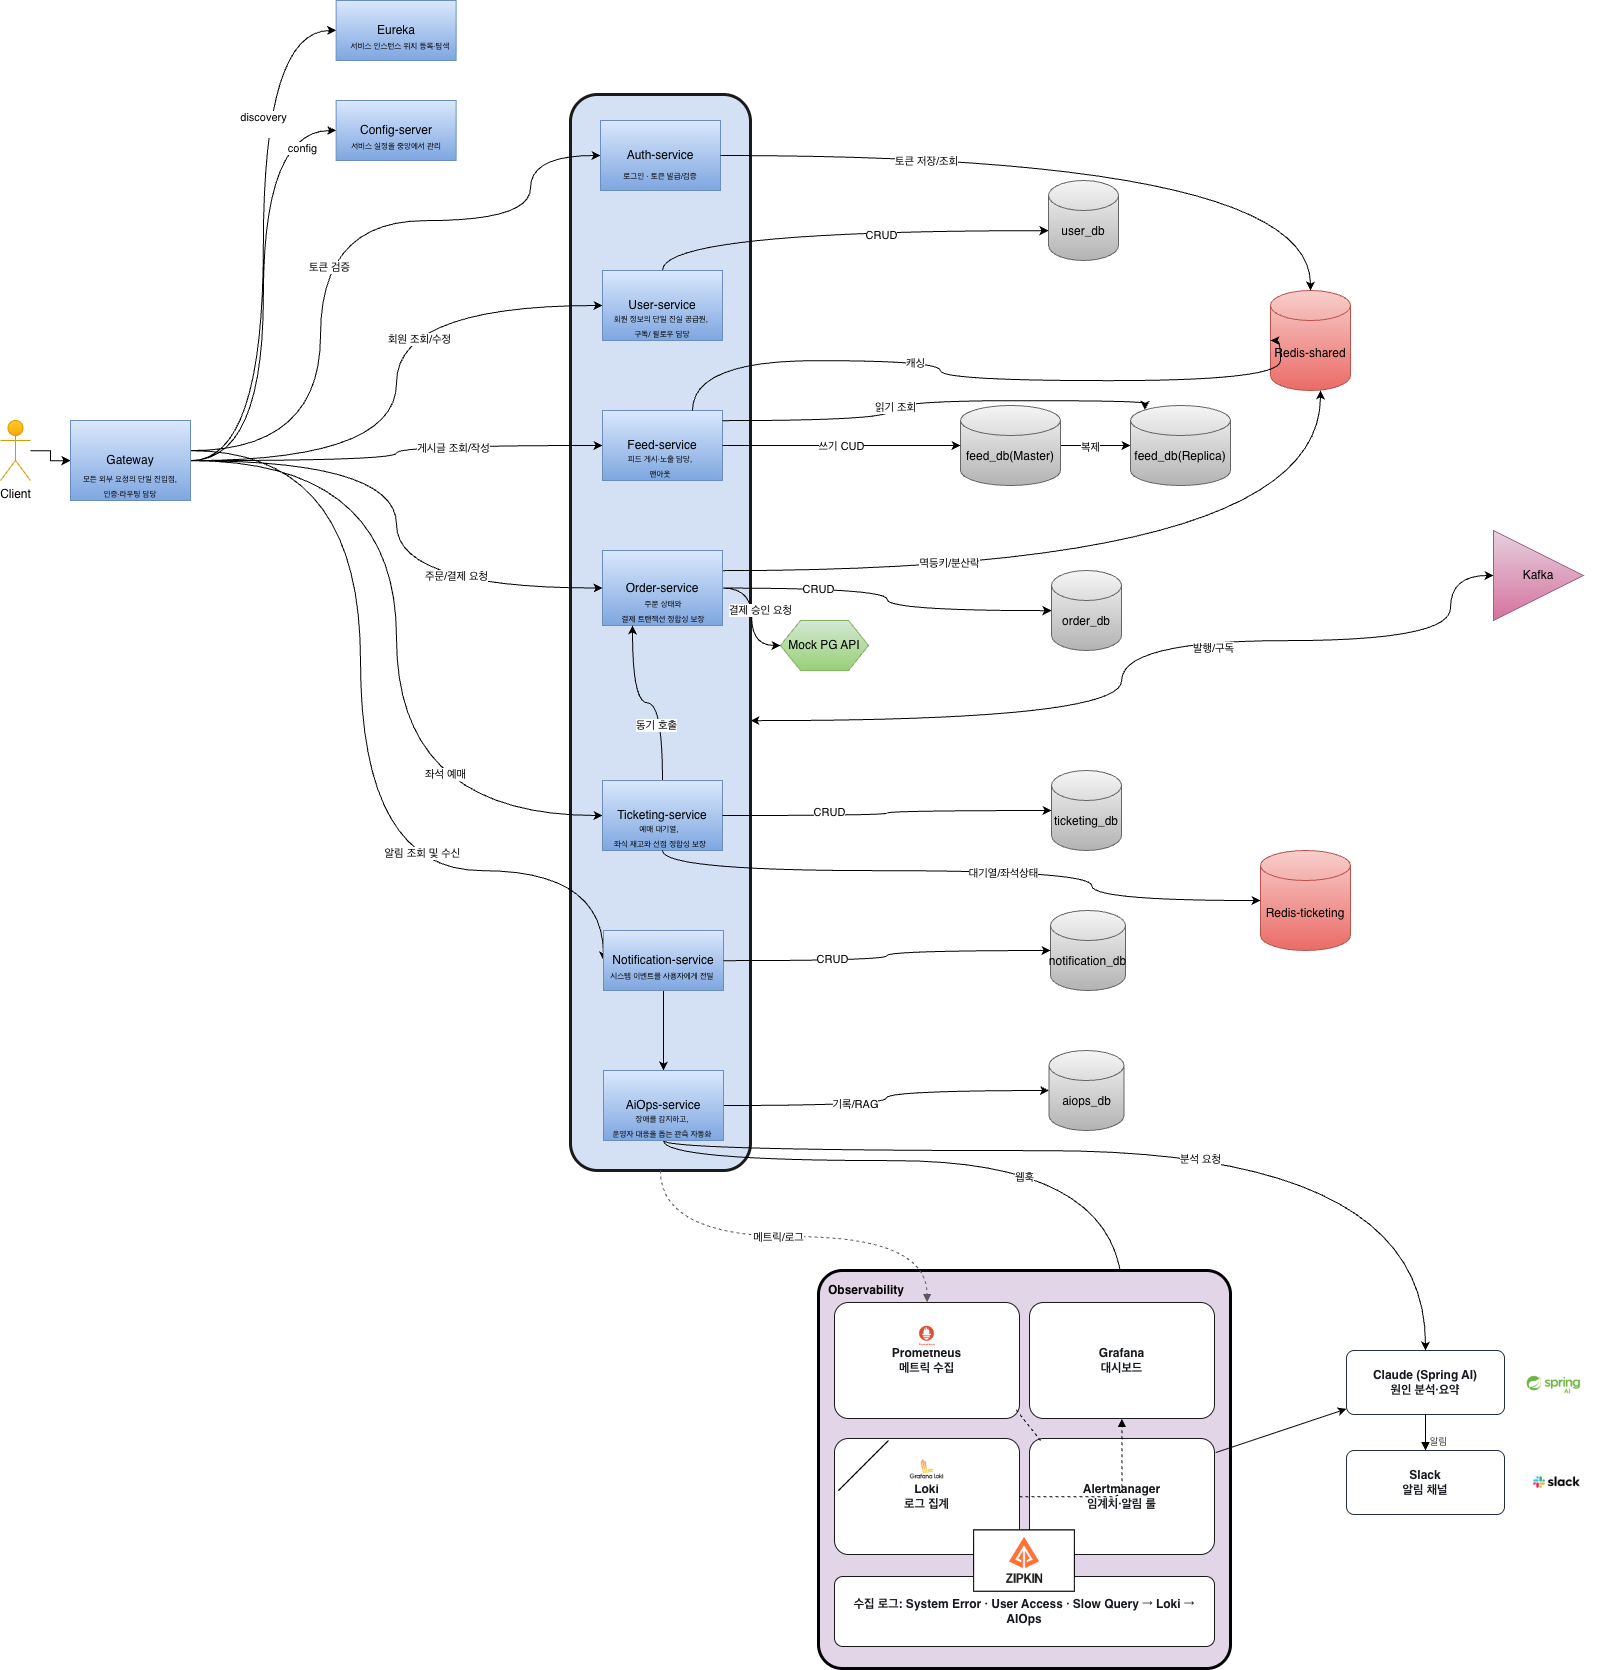
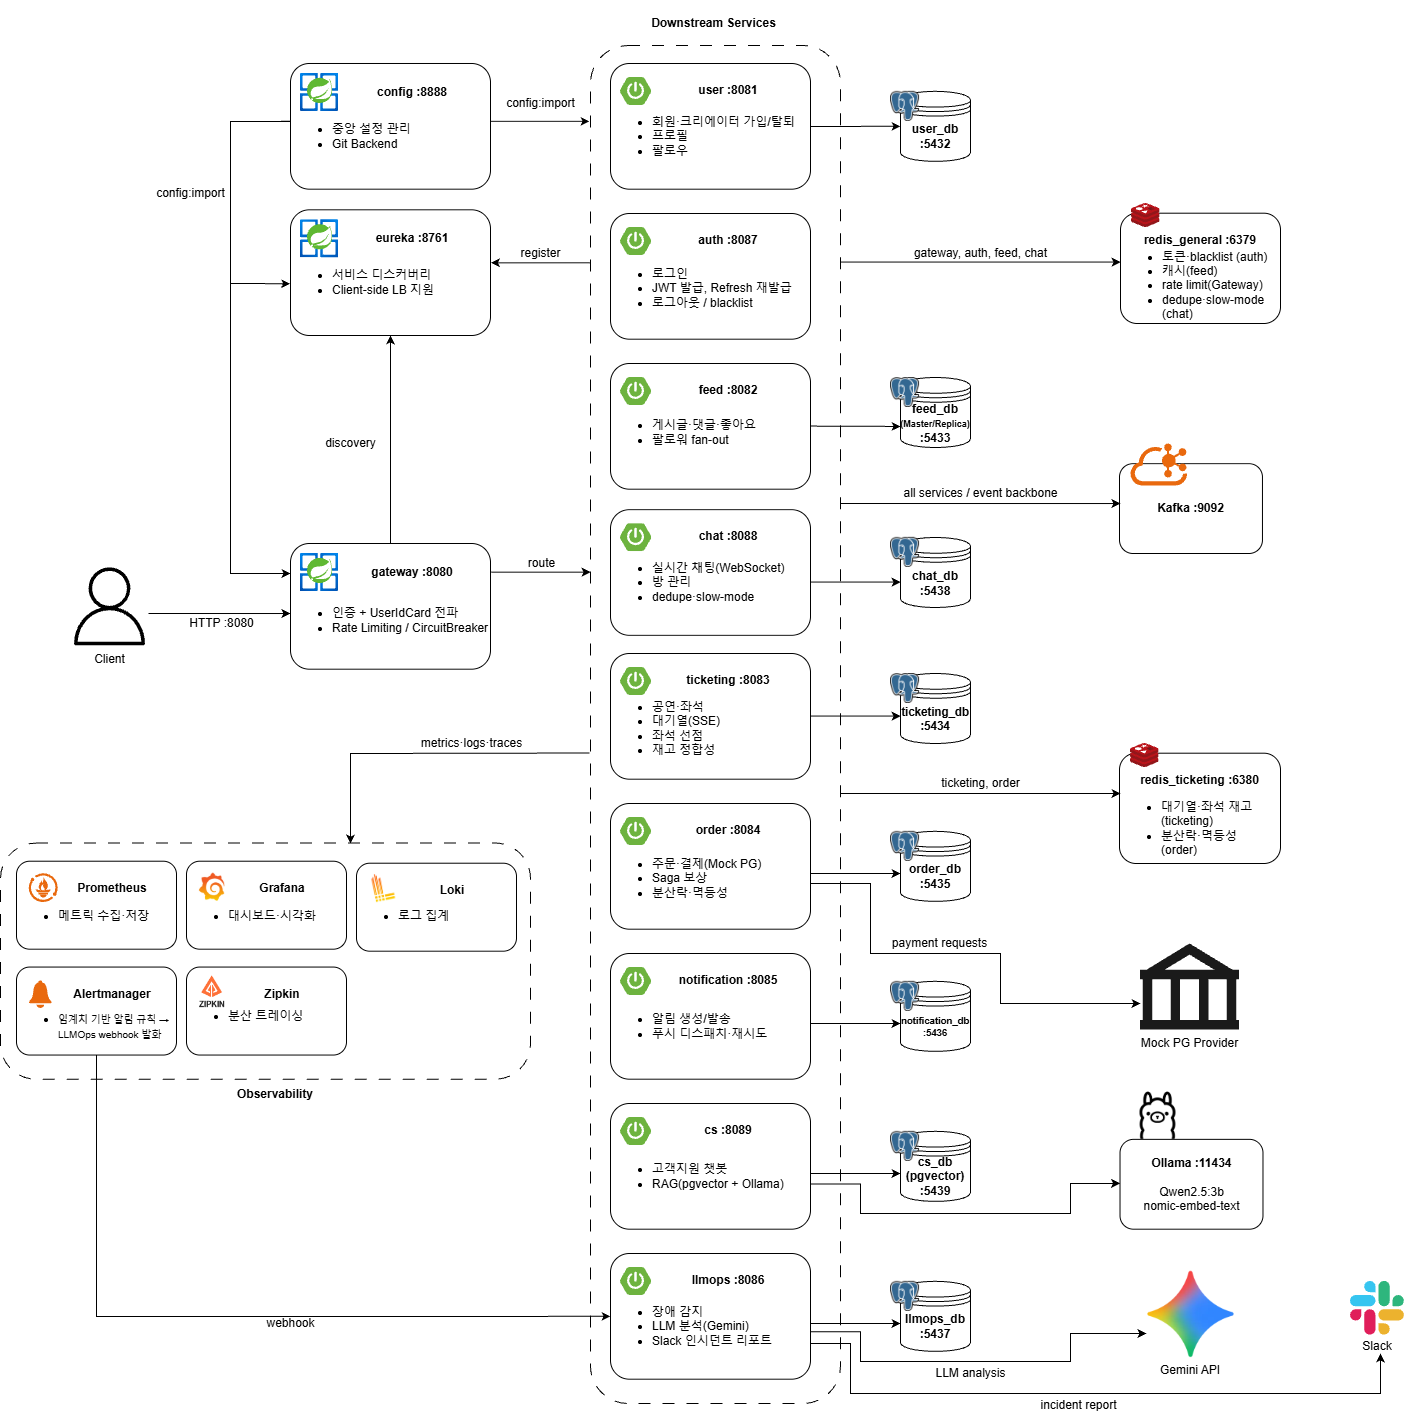
[docs] README 수정 (#385)
## 관련 이슈
Closes #381

diff --git a/README.md b/README.md
@@ -80,7 +80,7 @@ docker compose --profile all up -d --build
 
 ## 문서
 
-- [시스템 설계 개요 (SA)](docs/SA-260703.md) — 도메인·API·테이블·ERD·인프라 전반
+- [시스템 설계 개요 (SA)](docs/SA.md) — 도메인·API·테이블·ERD·인프라 전반
 - [로컬 실행 가이드](docs/infra/dev-start-guide.md) — 개발 환경 기동
 
 <!-- TODO: ERD 이미지 삽입 -->